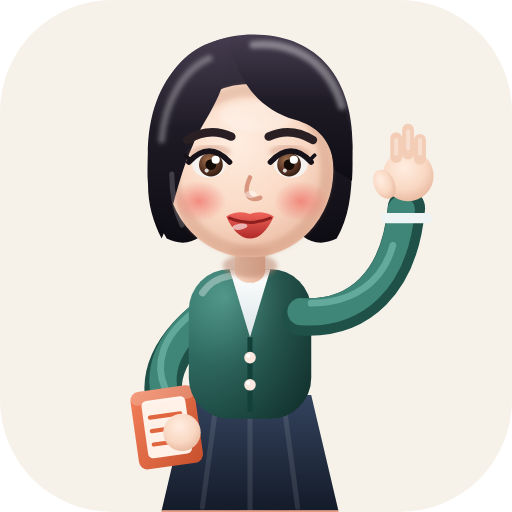
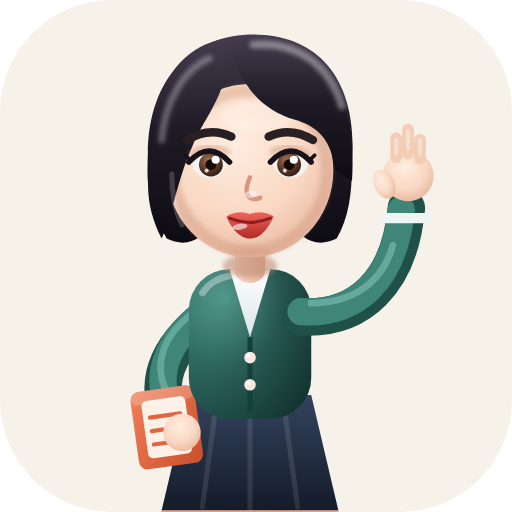
선생님 볼터치 제거, 집을 3D 느낌(입체 지붕·벽·창·문·덤불)으로 변경, 아이콘 갱신
Claude-Session: https://claude.ai/code/session_01GFiG5geJu7jjXnYb4pYTSP

Changed region(s): [[0.5312, 0.3438, 0.625, 0.4375], [0.3438, 0.3438, 0.4375, 0.4375]]

diff --git a/index.html b/index.html
@@ -63,8 +63,8 @@ body.teacher .wrap{padding-left:132px;padding-right:132px}
 /* 집 안 */
 .house{width:min(776px,100%);margin:34px auto 0;position:relative}
 .roof{display:block;width:calc(100% + 72px);margin:0 -36px;height:auto;position:relative;z-index:1}
-.chimney{position:absolute;right:130px;top:26px;width:40px;height:84px;background:var(--accent);border-radius:4px;z-index:0}
-.eave{position:relative;z-index:2;height:14px;border-radius:7px;background:var(--primary-deep);margin:-10px -45px 0}
+.chimney{position:absolute;right:130px;top:26px;width:40px;height:84px;background:linear-gradient(90deg,#F58862,#B8472A);border-radius:4px;z-index:0}
+.eave{position:relative;z-index:2;height:14px;border-radius:7px;background:linear-gradient(#3A7E72,#173F38);box-shadow:0 6px 10px rgba(30,42,58,.25);margin:-10px -45px 0}
 .rooms{position:relative;z-index:1;display:grid;grid-template-columns:repeat(3,1fr);gap:16px;padding:24px;background:var(--surface);border-radius:0 0 20px 20px;box-shadow:var(--shadow-lift)}
 .room{border:0;border-radius:22px;padding:22px 10px;min-height:200px;background:var(--tint);display:flex;flex-direction:column;align-items:center;justify-content:center;gap:6px;text-align:center;transition:transform .15s}
 .room:active{transform:scale(.97)}
@@ -186,22 +186,58 @@ button.tile{border:0;width:100%;font-family:var(--f-label);cursor:pointer}
     <p class="hint">문을 열고 들어오면 오늘의 역사 수업이 시작돼요</p>
     <div class="stage">
     <svg id="houseSvg" viewBox="0 0 520 440" role="button" aria-label="집으로 들어가기">
-      <ellipse cx="260" cy="424" rx="260" ry="16" fill="#1E2A3A" opacity=".14"/>
-      <rect x="330" y="50" width="36" height="70" rx="4" fill="#E0663F"/>
-      <rect x="60" y="200" width="400" height="212" rx="6" fill="#fff" style="filter:drop-shadow(0 12px 18px rgba(30,42,58,.16))"/>
-      <rect x="60" y="398" width="400" height="14" fill="#E3EFEB"/>
-      <polygon points="260,20 500,210 20,210" fill="#2F6B62" stroke="#2F6B62" stroke-width="10" stroke-linejoin="round"/>
-      <polygon points="260,72 424,206 96,206" fill="#1F4B45"/>
-      <rect x="10" y="202" width="500" height="12" rx="6" fill="#1F4B45"/>
-      <circle cx="260" cy="139" r="27" fill="#DCEBF5" stroke="#fff" stroke-width="6"/>
-      <g id="win"><rect x="98.5" y="250.5" width="91" height="87" rx="9" fill="#DCEBF5" stroke="#1F4B45" stroke-width="5"/><rect x="142" y="248" width="4" height="92" fill="#1F4B45"/><rect x="96" y="292" width="96" height="4" fill="#1F4B45"/><rect x="88" y="338" width="112" height="10" rx="5" fill="#1F4B45"/></g>
+      <defs>
+        <linearGradient id="hRoofL" x1="0" y1="0" x2="0" y2="1"><stop offset="0" stop-color="#4E9A8C"/><stop offset="1" stop-color="#2F6F64"/></linearGradient>
+        <linearGradient id="hRoofR" x1="0" y1="0" x2="0" y2="1"><stop offset="0" stop-color="#2F7064"/><stop offset="1" stop-color="#1D4B44"/></linearGradient>
+        <linearGradient id="hGable" x1="0" y1="0" x2="0" y2="1"><stop offset="0" stop-color="#245D55"/><stop offset="1" stop-color="#12372F"/></linearGradient>
+        <linearGradient id="hEave" x1="0" y1="0" x2="0" y2="1"><stop offset="0" stop-color="#3A7E72"/><stop offset="1" stop-color="#173F38"/></linearGradient>
+        <linearGradient id="hWall" x1="0" y1="0" x2="1" y2="0"><stop offset="0" stop-color="#FFFFFF"/><stop offset=".6" stop-color="#F7F3EC"/><stop offset="1" stop-color="#E3DCCF"/></linearGradient>
+        <linearGradient id="hBase" x1="0" y1="0" x2="0" y2="1"><stop offset="0" stop-color="#E8F1EE"/><stop offset="1" stop-color="#C9DAD5"/></linearGradient>
+        <linearGradient id="hGlass" x1="0" y1="0" x2="1" y2="1"><stop offset="0" stop-color="#F0F8FD"/><stop offset=".55" stop-color="#C4DDEC"/><stop offset="1" stop-color="#9EC2DA"/></linearGradient>
+        <radialGradient id="hGlassR" cx=".35" cy=".3" r=".8"><stop offset="0" stop-color="#F3FAFF"/><stop offset="1" stop-color="#A9CBE0"/></radialGradient>
+        <linearGradient id="hFrame" x1="0" y1="0" x2="0" y2="1"><stop offset="0" stop-color="#2C6A5F"/><stop offset="1" stop-color="#17433C"/></linearGradient>
+        <linearGradient id="hDoor" x1="0" y1="0" x2="1" y2="1"><stop offset="0" stop-color="#F58862"/><stop offset=".6" stop-color="#E0663F"/><stop offset="1" stop-color="#B8472A"/></linearGradient>
+        <linearGradient id="hDoorIn" x1="0" y1="0" x2="1" y2="1"><stop offset="0" stop-color="#C9532F"/><stop offset="1" stop-color="#F08A66"/></linearGradient>
+        <radialGradient id="hKnob" cx=".35" cy=".3" r=".8"><stop offset="0" stop-color="#FFF6D6"/><stop offset="1" stop-color="#D9A93A"/></radialGradient>
+        <linearGradient id="hChim" x1="0" y1="0" x2="1" y2="0"><stop offset="0" stop-color="#F58862"/><stop offset="1" stop-color="#B8472A"/></linearGradient>
+        <linearGradient id="hStep" x1="0" y1="0" x2="0" y2="1"><stop offset="0" stop-color="#F2ECDF"/><stop offset="1" stop-color="#CFC6B3"/></linearGradient>
+        <radialGradient id="hBush" cx=".35" cy=".25" r=".85"><stop offset="0" stop-color="#62AE9E"/><stop offset=".55" stop-color="#2F7468"/><stop offset="1" stop-color="#1B4B44"/></radialGradient>
+        <filter id="hBlur" x="-30%" y="-60%" width="160%" height="220%"><feGaussianBlur stdDeviation="5"/></filter>
+        <filter id="hBlurS" x="-30%" y="-60%" width="160%" height="220%"><feGaussianBlur stdDeviation="2.2"/></filter>
+      </defs>
+      <ellipse cx="270" cy="424" rx="250" ry="14" fill="#1E2A3A" opacity=".28" filter="url(#hBlur)"/>
+      <rect x="330" y="50" width="36" height="76" rx="4" fill="url(#hChim)"/><rect x="326" y="46" width="44" height="10" rx="4" fill="#B8472A"/><rect x="326" y="46" width="44" height="4" rx="2" fill="#fff" opacity=".35"/>
+      <rect x="60" y="200" width="400" height="212" rx="6" fill="url(#hWall)"/>
+      <rect x="60" y="214" width="400" height="26" fill="#1E2A3A" opacity=".2" filter="url(#hBlur)"/>
+      <rect x="60" y="398" width="400" height="14" fill="url(#hBase)"/>
+      <polygon points="260,20 500,210 20,210" fill="url(#hRoofR)" stroke="url(#hRoofR)" stroke-width="10" stroke-linejoin="round"/>
+      <polygon points="260,20 260,210 20,210" fill="url(#hRoofL)"/>
+      <path d="M262 22 500 210" stroke="#fff" stroke-opacity=".0" stroke-width="1"/>
+      <g stroke="#0B2B26" stroke-opacity=".12" stroke-width="3" stroke-linecap="round"><path d="M224 80H296M196 112H324M168 144H352M140 176H380"/></g>
+      <path d="M258 24 26 206" stroke="#fff" stroke-opacity=".4" stroke-width="3" stroke-linecap="round"/>
+      <polygon points="260,72 424,206 96,206" fill="url(#hGable)"/>
+      <rect x="10" y="202" width="500" height="12" rx="6" fill="url(#hEave)"/><rect x="14" y="203" width="492" height="3" rx="1.5" fill="#fff" opacity=".28"/>
+      <circle cx="260" cy="139" r="27" fill="url(#hGlassR)" stroke="#fff" stroke-width="6"/><circle cx="260" cy="139" r="30.5" fill="none" stroke="#12372F" stroke-opacity=".25" stroke-width="1.5"/>
+      <path d="M247 131a16 16 0 0 1 14-10" stroke="#fff" stroke-opacity=".8" stroke-width="3.5" stroke-linecap="round" fill="none"/>
+      <g id="win">
+        <rect x="90" y="344" width="108" height="10" rx="5" fill="#1E2A3A" opacity=".25" filter="url(#hBlurS)"/>
+        <rect x="96" y="248" width="96" height="92" rx="10" fill="url(#hFrame)"/>
+        <rect x="102" y="254" width="84" height="80" rx="6" fill="url(#hGlass)"/>
+        <rect x="142" y="254" width="4" height="80" fill="url(#hFrame)"/><rect x="102" y="292" width="84" height="4" fill="url(#hFrame)"/>
+        <polygon points="106,258 128,258 108,330 106,330" fill="#fff" opacity=".42"/><polygon points="152,258 166,258 148,330 138,330" fill="#fff" opacity=".22"/>
+        <rect x="88" y="338" width="112" height="10" rx="5" fill="url(#hEave)"/><rect x="92" y="339" width="104" height="2.6" rx="1.3" fill="#fff" opacity=".3"/>
+      </g>
       <use href="#win" x="232"/>
-      <path d="M214 410V300a46 46 0 0 1 92 0V410Z" fill="#E0663F"/>
-      <path d="M228 396V300a32 32 0 0 1 64 0V396Z" fill="#FBE7DE" opacity=".35"/>
-      <circle cx="287" cy="343" r="5" fill="#fff"/>
-      <rect x="195" y="408" width="130" height="14" rx="4" fill="#E6DFD2"/>
-      <g fill="#2F6B62" opacity=".95"><ellipse cx="31" cy="405" rx="25" ry="17"/><ellipse cx="45" cy="397" rx="28" ry="25"/><ellipse cx="59" cy="404" rx="19" ry="18"/>
-      <ellipse cx="456" cy="408" rx="22" ry="15"/><ellipse cx="469" cy="401" rx="25" ry="22"/><ellipse cx="480" cy="407" rx="17" ry="16"/></g>
+      <rect x="205" y="262" width="110" height="150" rx="52" fill="#1E2A3A" opacity=".18" filter="url(#hBlurS)"/>
+      <path d="M214 410V300a46 46 0 0 1 92 0V410Z" fill="url(#hDoor)"/>
+      <path d="M214 410V300a46 46 0 0 1 92 0V410Z" fill="none" stroke="#fff" stroke-opacity=".35" stroke-width="2.4"/>
+      <path d="M228 396V300a32 32 0 0 1 64 0V396Z" fill="url(#hDoorIn)"/>
+      <path d="M228 396V300a32 32 0 0 1 64 0" fill="none" stroke="#7E2C16" stroke-opacity=".45" stroke-width="2.4"/>
+      <path d="M231 396V300a29 29 0 0 1 58 0" fill="none" stroke="#fff" stroke-opacity=".3" stroke-width="1.6"/>
+      <circle cx="287" cy="343" r="6" fill="url(#hKnob)"/><circle cx="285.5" cy="341.5" r="1.8" fill="#fff" opacity=".9"/>
+      <rect x="192" y="406" width="136" height="16" rx="4" fill="url(#hStep)"/><rect x="192" y="406" width="136" height="3" rx="1.5" fill="#fff" opacity=".6"/>
+      <g><ellipse cx="38" cy="418" rx="34" ry="6" fill="#1E2A3A" opacity=".2" filter="url(#hBlurS)"/><ellipse cx="31" cy="405" rx="25" ry="17" fill="url(#hBush)"/><ellipse cx="45" cy="397" rx="28" ry="25" fill="url(#hBush)"/><ellipse cx="59" cy="404" rx="19" ry="18" fill="url(#hBush)"/><ellipse cx="40" cy="388" rx="9" ry="5" fill="#fff" opacity=".22"/></g>
+      <g><ellipse cx="468" cy="420" rx="32" ry="6" fill="#1E2A3A" opacity=".2" filter="url(#hBlurS)"/><ellipse cx="456" cy="408" rx="22" ry="15" fill="url(#hBush)"/><ellipse cx="469" cy="401" rx="25" ry="22" fill="url(#hBush)"/><ellipse cx="480" cy="407" rx="17" ry="16" fill="url(#hBush)"/><ellipse cx="465" cy="390" rx="8" ry="4.5" fill="#fff" opacity=".22"/></g>
     </svg>
     <svg class="mascot" viewBox="0 0 250 400" aria-hidden="true">
       <defs>
@@ -211,7 +247,6 @@ button.tile{border:0;width:100%;font-family:var(--f-label);cursor:pointer}
         <radialGradient id="mCardi" cx=".3" cy=".18" r=".95"><stop offset="0" stop-color="#58A596"/><stop offset=".5" stop-color="#2F6B62"/><stop offset="1" stop-color="#1A4640"/></radialGradient>
         <linearGradient id="mShade" x1="0" y1="0" x2="1" y2="0"><stop offset="0" stop-color="#000" stop-opacity="0"/><stop offset="1" stop-color="#000" stop-opacity=".28"/></linearGradient>
         <linearGradient id="mSkirt" x1="0" y1="0" x2="0" y2="1"><stop offset="0" stop-color="#34435E"/><stop offset="1" stop-color="#141B29"/></linearGradient>
-        <radialGradient id="mBlush"><stop offset="0" stop-color="#F0786F" stop-opacity=".8"/><stop offset="1" stop-color="#F0786F" stop-opacity="0"/></radialGradient>
         <radialGradient id="mIris" cx=".4" cy=".32" r=".75"><stop offset="0" stop-color="#A47452"/><stop offset=".55" stop-color="#5E3827"/><stop offset="1" stop-color="#2A170F"/></radialGradient>
         <linearGradient id="mLip" x1="0" y1="0" x2="0" y2="1"><stop offset="0" stop-color="#F0645A"/><stop offset="1" stop-color="#B02A28"/></linearGradient>
         <linearGradient id="mBlouse" x1="0" y1="0" x2="0" y2="1"><stop offset="0" stop-color="#FFFFFF"/><stop offset="1" stop-color="#DCE5E8"/></linearGradient>
@@ -264,7 +299,6 @@ button.tile{border:0;width:100%;font-family:var(--f-label);cursor:pointer}
       <path d="M85 112l-3-3M155 112l3-3" stroke="#17121A" stroke-width="2.2" stroke-linecap="round"/>
       <path d="M120 122q-4 9 0 12q3 1.5 6 0" stroke="#D9967F" stroke-width="2.6" stroke-linecap="round" fill="none"/>
       <ellipse cx="120.5" cy="132" rx="3.6" ry="2.2" fill="#fff" opacity=".45"/>
-      <ellipse cx="90" cy="136" rx="16" ry="12" fill="url(#mBlush)"/><ellipse cx="150" cy="136" rx="16" ry="12" fill="url(#mBlush)"/>
       <path d="M106 145q7-4 14-1.5q7-2.5 14 1.5q-6 13-14 13t-14-13z" fill="url(#mLip)"/>
       <path d="M108 146q12 5 24 0" stroke="#8E1F1E" stroke-width="1.8" stroke-linecap="round" fill="none"/>
       <ellipse cx="114" cy="151" rx="4.5" ry="1.8" fill="#fff" opacity=".6" transform="rotate(-8 114 151)"/>
@@ -289,7 +323,7 @@ button.tile{border:0;width:100%;font-family:var(--f-label);cursor:pointer}
   <section id="home" class="hidden">
     <div class="house">
       <div class="chimney"></div>
-      <svg class="roof" viewBox="0 0 848 120" preserveAspectRatio="none"><polygon points="424,4 848,120 0,120" fill="#2F6B62"/><polygon points="424,38 802,120 46,120" fill="#1F4B45"/><text x="424" y="96" text-anchor="middle" font-size="22" fill="#fff" style="font-family:var(--f-body)">오늘은 어느 방으로 갈까요?</text></svg>
+      <svg class="roof" viewBox="0 0 848 120" preserveAspectRatio="none"><defs><linearGradient id="rL" x1="0" y1="0" x2="0" y2="1"><stop offset="0" stop-color="#4E9A8C"/><stop offset="1" stop-color="#2F6F64"/></linearGradient><linearGradient id="rR" x1="0" y1="0" x2="0" y2="1"><stop offset="0" stop-color="#2F7064"/><stop offset="1" stop-color="#1D4B44"/></linearGradient><linearGradient id="rG" x1="0" y1="0" x2="0" y2="1"><stop offset="0" stop-color="#245D55"/><stop offset="1" stop-color="#12372F"/></linearGradient></defs><polygon points="424,4 848,120 0,120" fill="url(#rR)"/><polygon points="424,4 424,120 0,120" fill="url(#rL)"/><path d="M424 8 8 118" stroke="#fff" stroke-opacity=".35" stroke-width="3" stroke-linecap="round"/><polygon points="424,38 802,120 46,120" fill="url(#rG)"/><text x="424" y="96" text-anchor="middle" font-size="22" fill="#fff" style="font-family:var(--f-body)">오늘은 어느 방으로 갈까요?</text></svg>
       <div class="eave"></div>
       <div class="rooms" id="rooms"></div>
     </div>
